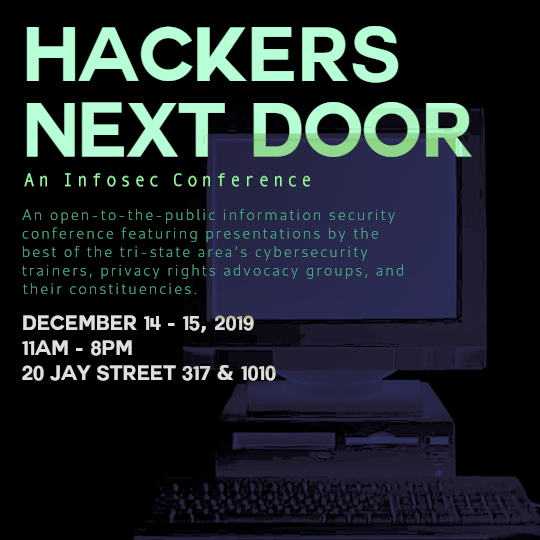
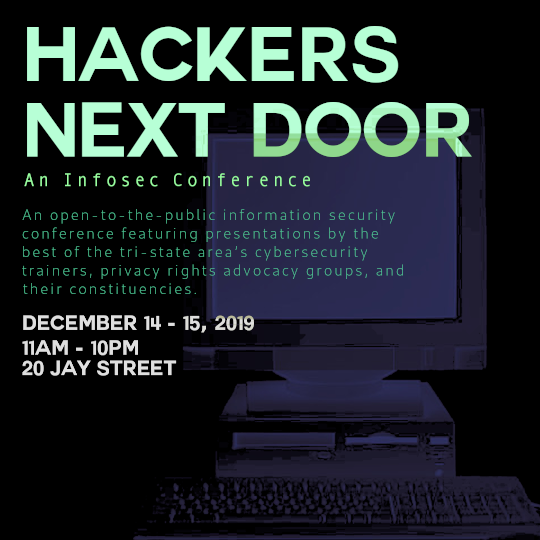
Update event images, publish press release.

diff --git a/_posts/2019-11-01-press-release-hackers-next-door-2019.md b/_posts/2019-11-01-press-release-hackers-next-door-2019.md
@@ -1,0 +1,34 @@
+---
+title: "At Hackers Next Door, national tech and policy groups meet with local privacy activists and cybersecurity experts"
+image: /static/images/event.2019-12-14.hackers-next-door-an-infosec-conference.rectangle.png
+---
+
+**FOR IMMEDIATE RELEASE:**
+
+*Contact:* 
+
+Tracy Whelan  
+Tech Learning Collective Media Relations Associate  
+[{{ site.data.contact.email }}](mailto:{{ site.data.contact.email }}?subject={{ "PRESS INQUIRY: Hackers Next Door 2019" | uri_escape }})
+
+**{{ page.title }}**
+
+{{ page.date | date: site.date_format }}
+
+*BROOKLYN, New York* &mdash; For two full days from 11AM to 10PM on December 14<sup>th</sup> and 15<sup>th</sup>, New Yorkers fighting against invasive corporate and dragnet government surveillance will share the stage with national technology law and policy watchdogs at *Hackers Next Door 2019*, an information security and social technology conference featuring presentations by the best of the tri-state area&rsquo;s cybersecurity trainers, privacy rights advocacy groups, activist networks, and their constituencies. The weekend conference will be hosted by [Tech Learning Collective]({% link index.html %}), an apprenticeship-based technology school via their semi-permanent residency with [Triangle Arts Association](https://hnd.techlearningcollective.com/sponsors/#triangle-arts-association) located at 20 Jay Street in Brooklyn&rsquo;s DUMBO neighborhood.
+
+Conference organizers cite the need to help grassroots campaigns and local community groups put more pressure on lawmakers and the for-profit technology sector to protect the civil and privacy rights of tenants and other Internet users as a driving force behind the event. &ldquo;We chose to feature the work of local, grassroots activists alongside more established non-profits because we believe in the power of &lsquo;bottom-up&rsquo; organizing,&rdquo; said Tracy Whelan, a spokesperson for the conference. &ldquo;The national conversation is ultimately driven by what happens on the local level, and we wanted to highlight that.&rdquo;
+
+The conference&rsquo;s speaker lineup includes representatives from [Freedom of the Press Foundation](https://hnd.techlearningcollective.com/speakers/#freedom-of-the-press-foundation-fpf), which maintains the SecureDrop open source whistleblower submission system and names NSA whistleblower Edward Snowden as a member of its Board of Directors; Isabela Bagueros, Executive Director of the [Tor Project](https://hnd.techlearningcollective.com/speakers/#tor-project), makers of the Tor Browser; Davi Ottenheimer, Chief Security Architect for World Wide Web inventor Sir Tim Berners-Lee&rsquo;s new venture, [Inrupt, Inc.](https://hnd.techlearningcollective.com/speakers/#inrupt-inc); and Executive Director of the [Surveillance Technology Oversight Project (S.T.O.P.)](https://hnd.techlearningcollective.com/speakers/#surveillance-technology-oversight-project-stop) Albert Fox Cahn, Esq., who has been a frequent commentator on civil rights for publications such as The New York Times, Slate, NBC Think, Newsweek, and the N.Y. Daily News and whose organization helps craft privacy laws such as the [Public Oversight of Surveillance Technology (POST) Act](https://www.stopspying.org/post-act).
+
+Also on the program are [tenants of the Atlantic Plaza Towers complex](https://hnd.techlearningcollective.com/speakers/#brooklyn-legal-services-tenants-rights-coalition-bls-lsnyc), who are fighting against their landlord&rsquo;s plans to force them to submit to facial recognition algorithms to access their homes; members of the semi-elusive [Shift-CTRL Space](https://hnd.techlearningcollective.com/speakers/#shift-ctrl-space) hacklab who are building community-owned Internet and intranet infrastructure in Queens; and Brooklyn-based creative technologist [Ari Melenciano, who founded the AFROTECTOPIA new media festival](https://hnd.techlearningcollective.com/speakers/#afrotectopia) on a shoestring budget.
+
+Alongside the many sessions about legal policy or anti-racist and anti-oppressive organizing, the conference stays true to its name by including numerous digital security workshops facilitated by world-class cybersecurity trainers, classic hacking demos such as phishing and Machine-in-the-Middle (MITM) attacks by &ldquo;anonymous members&rdquo; of self-proclaimed anarchist tech collective [Anarcho-Tech NYC](https://hnd.techlearningcollective.com/speakers/#anarcho-tech-nyc), and even an exploration of unlicensed and illegal broadcasts by legendary Brooklyn-based pirate radio station founder [DJ Cintronics, courtesy of the Brooklyn Pirate Radio Sound Map (BPRSM)](https://hnd.techlearningcollective.com/speakers/#brooklyn-pirate-radio-sound-map-bprsm) project.
+
+Organizers said that scheduling hacking demos back-to-back with policy strategy sessions was an intentional choice.
+
+&ldquo;For us at Tech Learning Collective, it&rsquo;s important to have both uncompromising pro-social politics and unparalleled technical competency so that we can go further than just imagining a more just, less unequal future, but also build power beyond mere voter representation to enact that vision ourselves,&rdquo; they said. &ldquo;As activists, journalists, and tenants, we need to see first-hand exactly what threats government-funded hackers and cyberwarfare units&mdash;and especially cyber-augmented class warfare&mdash;pose to our work, or we won&rsquo;t be able to exercise our rights, communicate freely, or organize safely. This conference gives us a better chance to win all the legal, cultural, and technical battles we&rsquo;ve been forced to fight.&rdquo;
+
+{% include press-boilerplate.md %}
+
+ # # #
